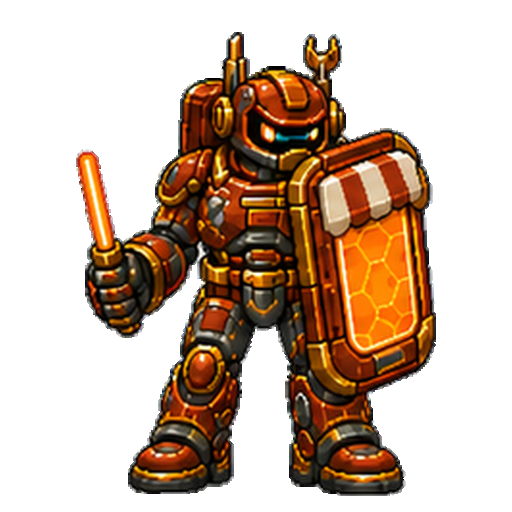
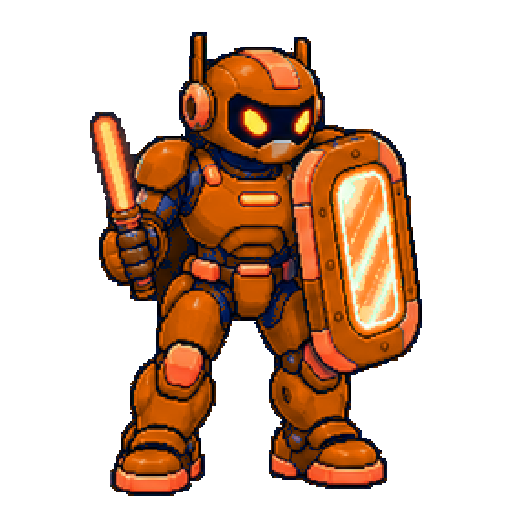
fix: enforce enemy pixel density parity

diff --git a/android/tools/build_reference_enemy_remix.py b/android/tools/build_reference_enemy_remix.py
@@ -1,0 +1,217 @@
+#!/usr/bin/env python3
+"""Build crisp enemy variants directly from the two user-approved atlases.
+
+Market Enforcer inherits Shield Guard's shield/baton silhouettes and motion.
+Keeper-7 inherits Striker's large-glove silhouettes and motion.  Every output
+tier is transformed from the matching approved tier, never from a reduced copy.
+"""
+
+from __future__ import annotations
+
+import argparse
+import colorsys
+from pathlib import Path
+
+from PIL import Image, ImageDraw
+
+
+COLS = ROWS = 6
+TIER_PATHS = {
+    "base": "enemies/{actor}_anim.png",
+    "runtime": "runtime/enemies/{actor}_anim.png",
+    "tv": "tv/enemies/{actor}_anim.png",
+}
+TARGET_CELLS = {
+    "base": (224, 192),
+    "runtime": (336, 288),
+    "tv": (196, 168),
+}
+SAFE_GUTTERS = {"base": 8, "runtime": 12, "tv": 7}
+
+
+def shift_palette(image: Image.Image, actor: str) -> Image.Image:
+    rgba = image.convert("RGBA")
+    output = []
+    for red, green, blue, alpha in rgba.getdata():
+        if not alpha:
+            output.append((0, 0, 0, 0))
+            continue
+        hue, saturation, value = colorsys.rgb_to_hsv(red / 255, green / 255, blue / 255)
+        degrees = hue * 360
+        if actor == "market_enforcer":
+            # Cyan/teal armor and green shield energy become readable copper,
+            # orange and amber while the approved navy joints remain intact.
+            if 145 <= degrees <= 220 and saturation >= .28 and value >= .18:
+                hue = 26 / 360
+                saturation = min(1.0, saturation * 1.08)
+                value = min(1.0, value * 1.04)
+            elif 65 <= degrees < 145 and saturation >= .25:
+                hue = 39 / 360
+                saturation = min(1.0, saturation * .92)
+                value = min(1.0, value * 1.10)
+        else:
+            # Striker teal becomes darker jade; coral accents become aged gold.
+            if 145 <= degrees <= 220 and saturation >= .25:
+                hue = 166 / 360
+                saturation = min(1.0, saturation * .90)
+                value = value * .78
+            elif (degrees <= 55 or degrees >= 335) and saturation >= .28:
+                hue = 42 / 360
+                saturation = min(1.0, saturation * .82)
+                value = min(1.0, value * 1.08)
+        nr, ng, nb = colorsys.hsv_to_rgb(hue, saturation, value)
+        output.append((round(nr * 255), round(ng * 255), round(nb * 255), 255))
+    rgba.putdata(output)
+    return rgba
+
+
+def remove_white_edge_pixels(image: Image.Image, actor: str) -> Image.Image:
+    """Replace only near-white silhouette pixels that touch transparency.
+
+    Interior eye, armor and energy highlights are preserved. This specifically
+    removes the pale halo that becomes conspicuous after TV filtering.
+    """
+    pixels = image.load()
+    source = image.copy()
+    original = source.load()
+    edge_color = (35, 18, 25, 255) if actor == "market_enforcer" else (8, 29, 39, 255)
+    for y in range(image.height):
+        for x in range(image.width):
+            red, green, blue, alpha = original[x, y]
+            # Generated masters also contain medium-grey fringe pixels (roughly
+            # RGB 120–190), which read as a white seam once filtered on TV.
+            if alpha == 0 or min(red, green, blue) < 96 or max(red, green, blue) - min(red, green, blue) > 28:
+                continue
+            touches_clear = False
+            for oy in (-1, 0, 1):
+                for ox in (-1, 0, 1):
+                    nx, ny = x + ox, y + oy
+                    if nx < 0 or ny < 0 or nx >= image.width or ny >= image.height \
+                            or original[nx, ny][3] == 0:
+                        touches_clear = True
+                        break
+                if touches_clear:
+                    break
+            if touches_clear:
+                pixels[x, y] = edge_color
+    return image
+
+
+def draw_keeper_identity(cell: Image.Image, clustered: bool) -> Image.Image:
+    """Add a bold chest core and seven compact lanterns inside the safe box."""
+    alpha_box = cell.getchannel("A").getbbox()
+    if not alpha_box:
+        return cell
+    left, top, right, bottom = alpha_box
+    width, height = right - left, bottom - top
+    unit = 2 if clustered else max(1, round(cell.height / 96))
+    draw = ImageDraw.Draw(cell)
+
+    # The core is intentionally broad and geometric so it survives TV scaling.
+    core_x = (left + right) // 2
+    core_y = top + round(height * .39)
+    radius = max(3 * unit, round(min(width, height) * .055))
+    outline = max(unit, radius // 3)
+    draw.ellipse((core_x-radius-outline, core_y-radius-outline,
+                  core_x+radius+outline, core_y+radius+outline), fill=(10, 35, 42, 255))
+    draw.ellipse((core_x-radius, core_y-radius, core_x+radius, core_y+radius),
+                 fill=(64, 245, 226, 255))
+    draw.rectangle((core_x-unit, core_y-radius, core_x+unit, core_y+radius),
+                   fill=(205, 255, 205, 255))
+
+    # Seven lanterns form one strong crown silhouette.  On grounded frames they
+    # stay compact rather than forcing the whole actor to shrink dramatically.
+    crown_width = max(14 * unit, round(width * .62))
+    crown_left = max(4 * unit, core_x - crown_width // 2)
+    crown_right = min(cell.width - 4 * unit, core_x + crown_width // 2)
+    crown_top = max(4 * unit, top - 7 * unit)
+    spacing = (crown_right - crown_left) / 6
+    stem_y = crown_top + 5 * unit
+    draw.line((crown_left, stem_y, crown_right, stem_y), fill=(70, 43, 12, 255), width=unit)
+    for index in range(7):
+        x = round(crown_left + index * spacing)
+        lift = (3 - abs(3 - index)) * unit // 2
+        y = crown_top - lift
+        draw.line((x, stem_y, x, y + 4 * unit), fill=(118, 73, 18, 255), width=unit)
+        draw.rectangle((x-2*unit, y, x+2*unit, y+4*unit), fill=(70, 43, 12, 255))
+        draw.rectangle((x-unit, y+unit, x+unit, y+3*unit), fill=(255, 181, 35, 255))
+    return cell
+
+
+def remix_atlas(source: Image.Image, actor: str, tier: str) -> Image.Image:
+    source = source.convert("RGBA")
+    source_width, source_height = source.width // COLS, source.height // ROWS
+    cell_width, cell_height = TARGET_CELLS[tier]
+    gutter = SAFE_GUTTERS[tier]
+    output = Image.new("RGBA", (cell_width * COLS, cell_height * ROWS), (0, 0, 0, 0))
+    for row in range(ROWS):
+        for column in range(COLS):
+            source_box = (column * source_width, row * source_height,
+                          (column + 1) * source_width, (row + 1) * source_height)
+            remixed = shift_palette(source.crop(source_box), actor)
+            alpha_box = remixed.getchannel("A").getbbox()
+            if not alpha_box:
+                raise ValueError(f"empty reference frame {tier} {row}:{column}")
+            figure = remixed.crop(alpha_box)
+            if figure.width > cell_width - gutter * 2 or figure.height > cell_height - gutter * 2:
+                raise ValueError(
+                    f"reference frame exceeds target safe box: {tier} {row}:{column} "
+                    f"{figure.size} in {cell_width}x{cell_height}"
+                )
+            cell = Image.new("RGBA", (cell_width, cell_height), (0, 0, 0, 0))
+            # Preserve every approved source pixel. Only placement changes:
+            # horizontally centred and baseline-locked inside the target cell.
+            x = (cell_width - figure.width) // 2
+            y = cell_height - gutter - figure.height
+            cell.alpha_composite(figure, (x, y))
+            if actor == "keeper_7":
+                cell = draw_keeper_identity(cell, tier == "base")
+            cell = remove_white_edge_pixels(cell, actor)
+            output.alpha_composite(cell, (column * cell_width, row * cell_height))
+    return output
+
+
+def fallback(runtime: Image.Image) -> Image.Image:
+    cell = runtime.crop((0, 0, runtime.width // COLS, runtime.height // ROWS))
+    box = cell.getchannel("A").getbbox()
+    if not box:
+        raise ValueError("empty idle frame")
+    actor = cell.crop(box)
+    scale = min(440 / actor.width, 464 / actor.height)
+    actor = actor.resize((round(actor.width * scale), round(actor.height * scale)),
+                         Image.Resampling.NEAREST)
+    result = Image.new("RGBA", (512, 512), (0, 0, 0, 0))
+    result.alpha_composite(actor, ((512 - actor.width) // 2, 496 - actor.height))
+    return result
+
+
+def save(image: Image.Image, path: Path) -> None:
+    path.parent.mkdir(parents=True, exist_ok=True)
+    image.save(path, optimize=True, compress_level=9)
+
+
+def build(actor: str, assets: Path, output: Path) -> None:
+    reference = "shield_guard" if actor == "market_enforcer" else "striker"
+    built = {}
+    for tier, pattern in TIER_PATHS.items():
+        source_path = assets / pattern.format(actor=reference)
+        built[tier] = remix_atlas(Image.open(source_path), actor, tier)
+        save(built[tier], output / pattern.format(actor=actor))
+    save(fallback(built["runtime"]), output / f"enemies/{actor}.png")
+
+
+def main() -> None:
+    parser = argparse.ArgumentParser()
+    parser.add_argument("--assets", type=Path, required=True)
+    parser.add_argument("--output", type=Path, required=True)
+    parser.add_argument("--actor", choices=("market_enforcer", "keeper_7", "all"),
+                        default="all")
+    args = parser.parse_args()
+    actors = ("market_enforcer", "keeper_7") if args.actor == "all" else (args.actor,)
+    for actor in actors:
+        build(actor, args.assets, args.output)
+        print(f"built reference remix: {actor}")
+
+
+if __name__ == "__main__":
+    main()

diff --git a/android/tools/test_enemy_pixel_density_contract.py b/android/tools/test_enemy_pixel_density_contract.py
@@ -1,0 +1,73 @@
+#!/usr/bin/env python3
+"""Release gate for consistent visible pixel density on every asset tier."""
+
+from pathlib import Path
+import re
+import statistics
+
+from PIL import Image
+
+
+ROOT = Path(__file__).resolve().parents[1]
+ASSETS = ROOT / "app/src/main/assets"
+JAVA = (ROOT / "app/src/main/java/com/familyforce/neonstreets/EnemyArchetype.java").read_text()
+ACTORS = ("striker", "shield_guard", "market_enforcer", "keeper_7")
+TIERS = {
+    "base": ("enemies", 1.13, 1.24, 8),
+    "runtime": ("runtime/enemies", 1.54, 1.95, 12),
+    "tv": ("tv/enemies", 1.03, 1.12, 7),
+}
+
+
+def render_height(actor: str) -> float:
+    match = re.search(
+        rf'type\("{re.escape(actor)}",\s*"[^"]+",\s*\d+,\s*[\d.]+f,'
+        rf'\s*\d+,\s*\d+,\s*\d+,\s*\d+,\s*(\d+(?:\.\d+)?)f,',
+        JAVA,
+    )
+    assert match, f"missing render height: {actor}"
+    return float(match.group(1))
+
+
+def frames(atlas: Image.Image):
+    cell_width, cell_height = atlas.width // 6, atlas.height // 6
+    for row in range(6):
+        for column in range(6):
+            yield atlas.crop((column * cell_width, row * cell_height,
+                              (column + 1) * cell_width, (row + 1) * cell_height))
+
+
+density_records = {}
+for actor in ACTORS:
+    height = render_height(actor)
+    for tier, (folder, lower, upper, gutter) in TIERS.items():
+        path = ASSETS / folder / f"{actor}_anim.png"
+        with Image.open(path).convert("RGBA") as atlas:
+            assert atlas.width % 6 == 0 and atlas.height % 6 == 0, path
+            cells = list(frames(atlas))
+            boxes = [cell.getchannel("A").getbbox() for cell in cells]
+            assert all(boxes), (actor, tier, "empty frame")
+            cell_width, cell_height = cells[0].size
+            for box in boxes:
+                assert min(box[0], box[1], cell_width - box[2], cell_height - box[3]) >= gutter, (
+                    actor, tier, "unsafe gutter", box
+                )
+            standing_heights = [box[3] - box[1] for box in boxes[:12]]
+            density = statistics.median(standing_heights) / height
+            density_records[(actor, tier)] = density
+            assert lower <= density <= upper, (
+                actor, tier, f"APGU {density:.3f} outside {lower:.2f}–{upper:.2f}"
+            )
+            if tier == "base":
+                half = atlas.resize((atlas.width // 2, atlas.height // 2), Image.Resampling.NEAREST)
+                clustered = half.resize(atlas.size, Image.Resampling.NEAREST)
+                assert clustered.tobytes() != atlas.tobytes(), (
+                    actor, "base is manufactured from coarse exact 2x2 clusters"
+                )
+
+for actor, reference in (("market_enforcer", "shield_guard"), ("keeper_7", "striker")):
+    for tier in TIERS:
+        ratio = density_records[(actor, tier)] / density_records[(reference, tier)]
+        assert .96 <= ratio <= 1.04, (actor, tier, reference, f"density ratio {ratio:.3f}")
+
+print(f"Enemy pixel density contract: PASS ({len(ACTORS)} actors × {len(TIERS)} tiers)")

diff --git a/android/tools/test_enemy_visual_quality_contract.py b/android/tools/test_enemy_visual_quality_contract.py
@@ -15,6 +15,7 @@ SOURCE_ROOT = ROOT.parent / "assets/imagegen/android/enemies"
 STRICT = (
     "grunt", "skater", "lantern_courier", "market_enforcer", "keeper_7",
 )
+FINE_PIXEL_REFERENCE = ("market_enforcer", "keeper_7")
 
 BUILDER_PATH = ROOT / "tools/build_strict_enemy_atlas.py"
 SPEC = importlib.util.spec_from_file_location("strict_enemy_builder", BUILDER_PATH)
@@ -81,14 +82,20 @@ for enemy in STRICT:
             lengths = [max(box[2] - box[0], box[3] - box[1]) for box in boxes]
             reference = statistics.median(lengths[:12])
             assert min(lengths[12:24]) >= reference * .78, (enemy, tier, "small action", lengths)
-            assert min(lengths[24:]) >= reference * .82, (enemy, tier, "small reaction", lengths)
+            reaction_floor = .68 if enemy in FINE_PIXEL_REFERENCE else .82
+            assert min(lengths[24:]) >= reference * reaction_floor, (
+                enemy, tier, "small reaction", lengths
+            )
     fallback = ASSETS / f"enemies/{enemy}.png"
     with Image.open(fallback).convert("RGBA") as idle:
         assert idle.size == (512, 512), (enemy, idle.size)
         assert idle.getchannel("A").getbbox(), (enemy, "empty fallback")
     with Image.open(tiers["base"][0]).convert("RGBA") as base:
         clustered = base.resize((672, 576), Image.Resampling.NEAREST).resize(base.size, Image.Resampling.NEAREST)
-        assert clustered.tobytes() == base.tobytes(), (enemy, "base lacks controlled 2px clusters")
+        if enemy in FINE_PIXEL_REFERENCE:
+            assert clustered.tobytes() != base.tobytes(), (enemy, "base has coarse manufactured 2px clusters")
+        else:
+            assert clustered.tobytes() == base.tobytes(), (enemy, "base lacks controlled 2px clusters")
 
 assert '"enemies/" + EnemyArchetype.of(type).asset + ".png"' in GAME
 assert "height * enemy.animator.cellAspectRatio()" in GAME

diff --git a/android/app/src/main/java/com/familyforce/neonstreets/EnemyArchetype.java b/android/app/src/main/java/com/familyforce/neonstreets/EnemyArchetype.java
@@ -24,8 +24,11 @@ final class EnemyArchetype {
             type("striker", "STRIKER", 76, 1.48f, 9, 56, 26, 500, 116f, 11, 16, 0, 0),
             type("shield_guard", "SHIELD GUARD", 128, .88f, 11, 58, 29, 800, 132f, 10, 12, 42, 0),
             type("lantern_courier", "LANTERN COURIER", 74, 1.62f, 9, 54, 25, 520, 116f, 14, 15, 0, 0),
-            type("market_enforcer", "MARKET ENFORCER", 210, .82f, 15, 66, 31, 1450, 148f, 10, 12, 55, RANK_MINI_BOSS),
-            type("keeper_7", "KEEPER-7", 430, .75f, 20, 92, 35, 3800, 164f, 10, 12, 0, RANK_BOSS),
+            // These heights are part of the pixel-density contract. Enlarging
+            // the same source figure here would manufacture visibly larger
+            // pixels even when the atlas file itself has high dimensions.
+            type("market_enforcer", "MARKET ENFORCER", 210, .82f, 15, 66, 31, 1450, 132f, 10, 12, 55, RANK_MINI_BOSS),
+            type("keeper_7", "KEEPER-7", 430, .75f, 20, 92, 35, 3800, 128f, 10, 12, 0, RANK_BOSS),
             type("rail_runner", "RAIL RUNNER", 80, 1.82f, 10, 60, 25, 580, 118f, 15, 16, 0, 0),
             type("signal_warden", "SIGNAL WARDEN", 225, .86f, 16, 70, 32, 1550, 150f, 10, 12, 60, RANK_MINI_BOSS),
             type("railmaster_9", "RAILMASTER-9", 470, .74f, 21, 96, 36, 4100, 166f, 10, 12, 0, RANK_BOSS),

diff --git a/android/docs/PIXEL_DENSITY_STANDARD_AR.md b/android/docs/PIXEL_DENSITY_STANDARD_AR.md
@@ -1,0 +1,48 @@
+# معيار كثافة الرسومات داخل اللعبة
+
+## لماذا لا نستخدم PPI الفيزيائي؟
+
+قيمة `PPI` تخص شاشة الجهاز الفعلية، ولذلك تتغير بين الهاتف والتلفاز وXiaomi
+Stick وNvidia Shield. لا يستطيع ملف PNG فرض PPI ثابت على جميع هذه الشاشات.
+المقياس الملزم داخل Family Force هو **APGU — Art Pixels Per Game Unit**:
+
+`APGU = متوسط ارتفاع جسم الشخصية بالبكسل داخل الأطلس ÷ ارتفاع عرضها في عالم اللعبة`
+
+بهذا يبقى حجم البكسلة الظاهر متجانسًا حتى لو اختلف حجم الشاشة أو دقتها.
+
+## المرجع المعتمد
+
+Striker وShield Guard هما المرجع البصري المعتمد. تقاس إطارات الوقوف والمشي
+الاثنا عشر الأولى، وتطبق الحدود التالية على كل شخصية جديدة:
+
+| طبقة الأصل | خلية الأطلس | APGU المسموح | الهامش الشفاف الأدنى |
+|---|---:|---:|---:|
+| Base | شبكة تفاصيل دقيقة 1×1 غير مصطنعة | 1.13–1.24 | 8 px |
+| Runtime | أصل مستقل غير مكبّر من Base | 1.54–1.95 | 12 px |
+| TV | أصل مستقل للأجهزة محدودة الذاكرة | 1.03–1.12 | 7 px |
+
+هذه القيم تمثل **كثافة البنية البكسلية داخل اللعبة**، وهي البديل الصحيح لـPPI
+في محرك يرسم على مساحة منطقية ثابتة `640×360` ثم يكيّفها مع الشاشة.
+
+## قواعد إلزامية
+
+1. لا يكبّر `renderHeight` شخصيةً أكثر مما تسمح به كثافة أطلسها.
+2. يمنع تصنيع Base بتكبير كل بكسل إلى كتلة `2×2`. المرجع المعتمد يحافظ
+   على تفاصيل `1×1` الدقيقة؛ لذلك يجب ألا يساوي الأطلس نسخة نصفية مكبرة منه.
+3. Runtime وTV يبنيان من الأصل الموافق لهما؛ يمنع تكبير Base لإنتاجهما.
+4. ألفا حادة فقط: `0` أو `255`، ولا RGB مخفي تحت البكسلات الشفافة.
+5. لا يلامس الرسم حدود الخلية، ولا ينتقل أي جزء إلى الإطار المجاور.
+6. تزال حافة الهالة البيضاء الملامسة للشفافية مع إبقاء اللمعان الداخلي.
+7. اختلاف ارتفاع الوقوف والمشي لا يتجاوز 5% من ارتفاع الخلية.
+8. أي شخصية خارج نطاق APGU تفشل اختبار الإصدار ولا تدخل APK.
+9. الشخصية المشتقة من مرجع معتمد تطابق APGU الخاص بذلك المرجع بفارق أقصى
+   `4%`؛ النطاق العام ليس مبررًا لاختيار قيمة عشوائية داخله.
+
+## التحقق
+
+يشغّل الإصدار:
+
+`python3 android/tools/test_enemy_pixel_density_contract.py`
+
+ويجب ألا يعدّل المطور حدود المعيار لتجاوز فشل شخصية؛ يعاد بناء الأطلس أو
+يصحح `renderHeight` أولًا، ثم يعتمد التغيير بصريًا بحجم العرض الحقيقي.
